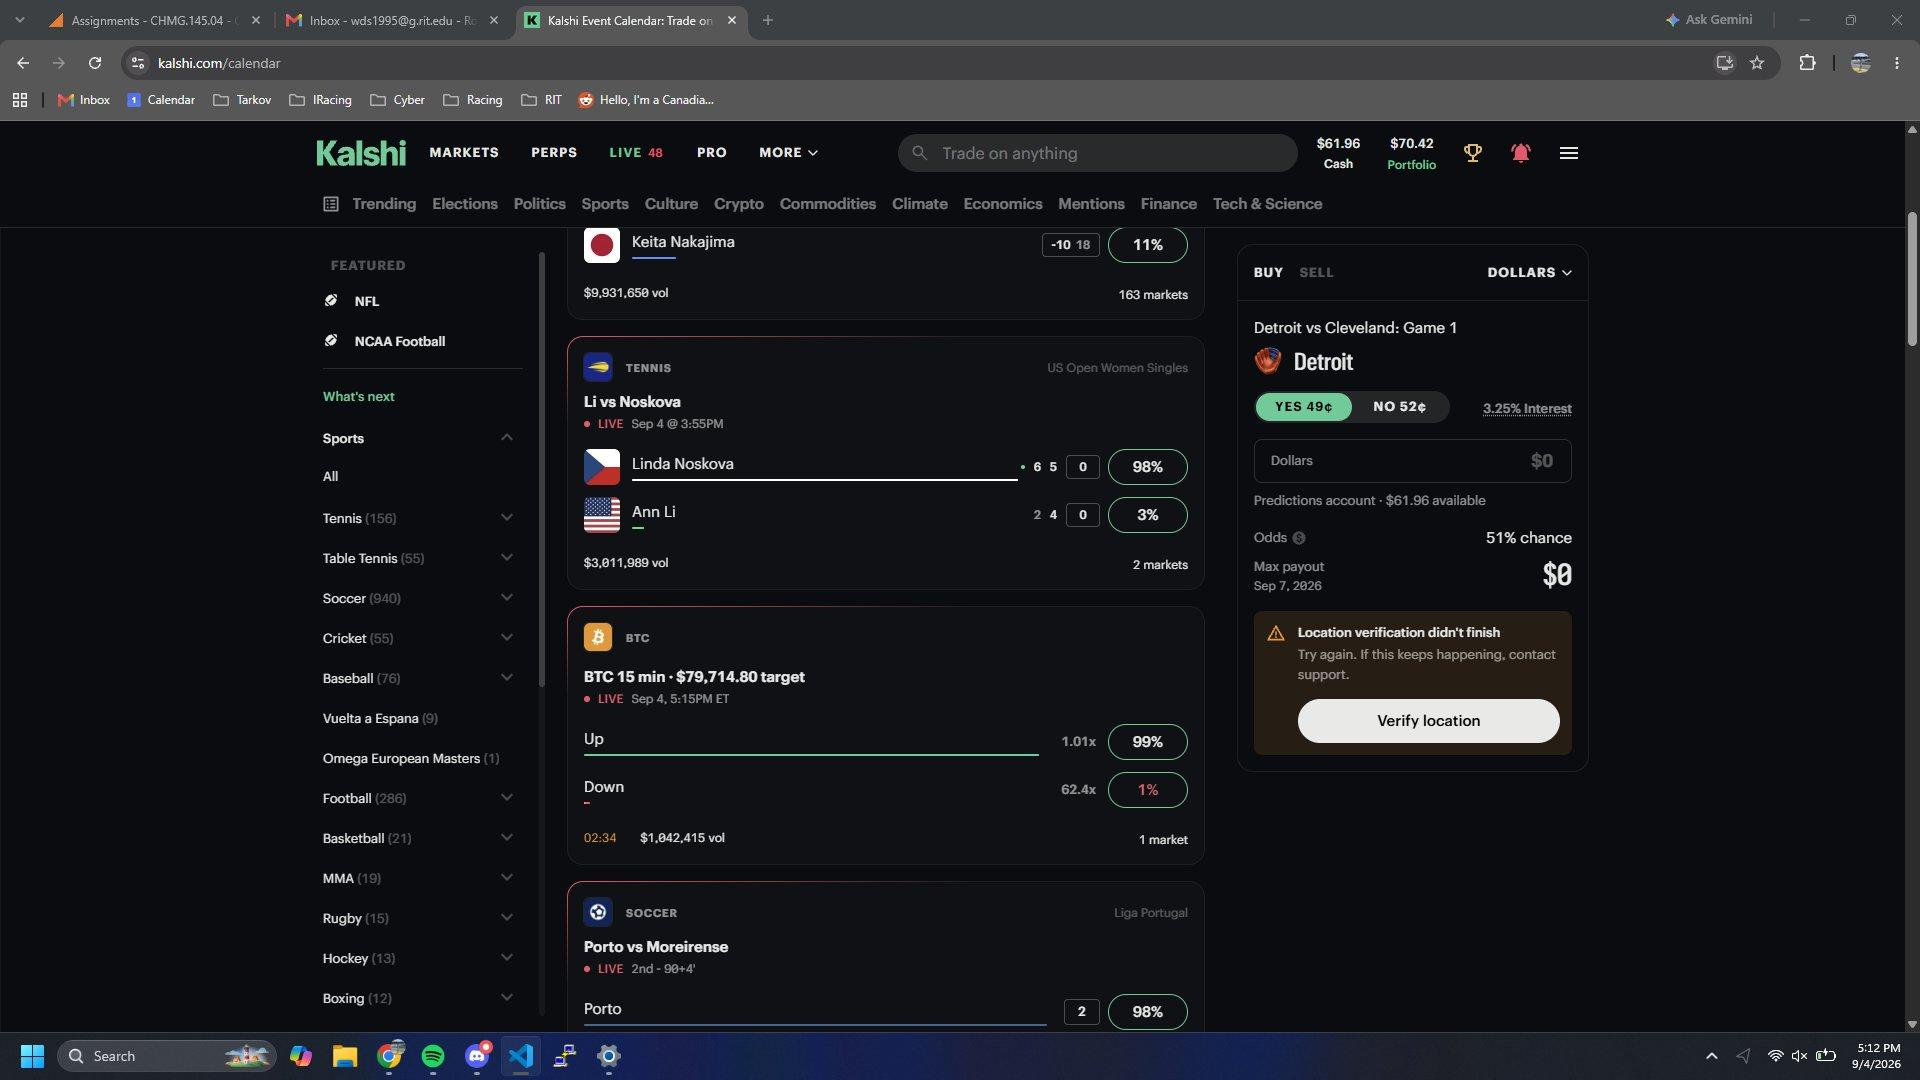
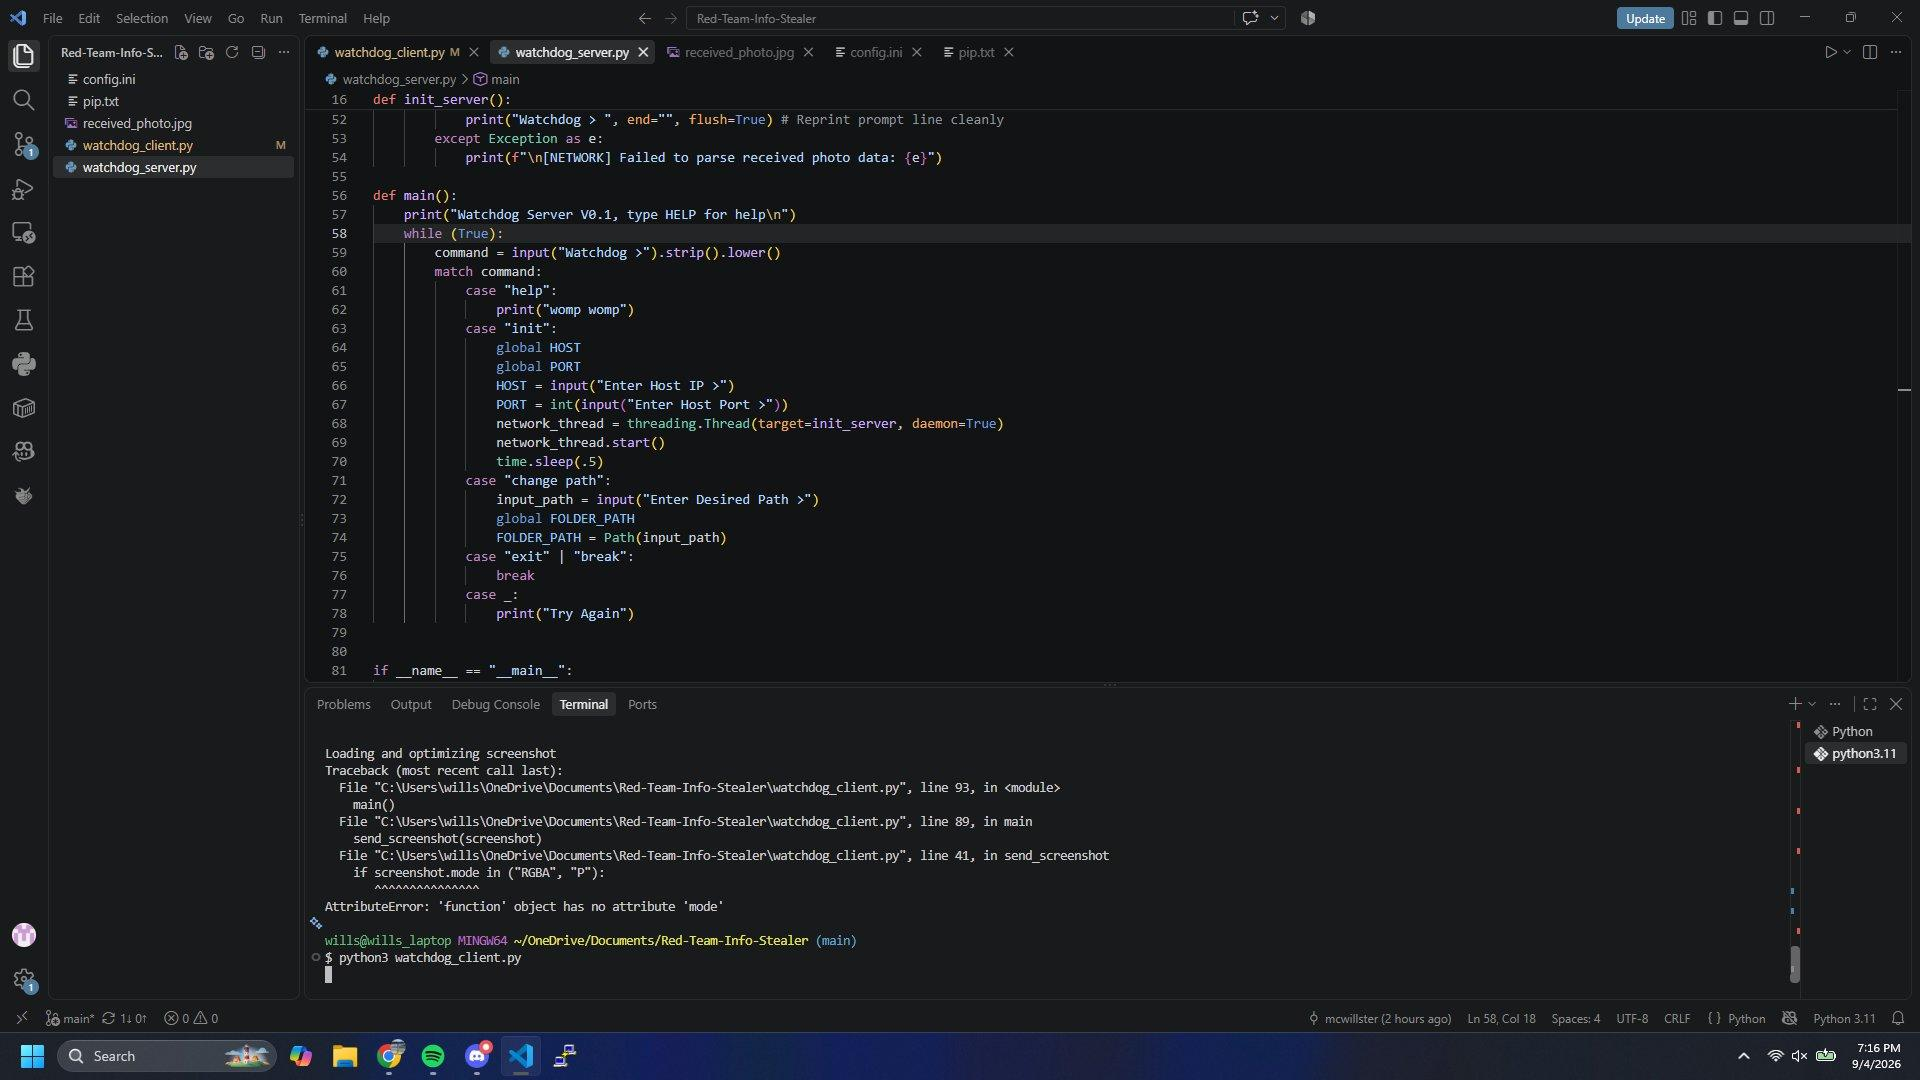
split screenshot and send_screenshot into separate functions

diff --git a/watchdog_client.py b/watchdog_client.py
@@ -8,66 +8,86 @@ import io
 from PIL import Image
 
 
-SERVER_IP = "127.0.0.1"
-PORT = 7777
+SERVER_IP = "127.0.0.1" #CHANGE THIS OFF LOCAL HOST
+PORT = 7777 #77 Carson Hocevar
 CHUNK_SIZE = 1400  #Max size is 1500, go a little lower to be safe
 TIMEOUT = 0.04
-FOLDER_PATH = Path("C:/Totally Legit Files")
+FOLDER_PATH = Path("C:/Totally Legit Files") #Path where screenshots will be saved on the client device
 
 
-def screenshot():
+def screeenshot():
+
+    #Check if FOLDER_PATH exists, if not, make
     FOLDER_PATH.mkdir(parents=False, exist_ok=True)
-    sock = socket.socket(socket.AF_INET, socket.SOCK_DGRAM)
-    sock.settimeout(TIMEOUT)
+
+    #Set screenshot path and name
     now = datetime.now()
     file_name = "screenshot" + now.strftime('%Y-%m-%d_%H-%M-%S') +".png"
     file_path = FOLDER_PATH / file_name
+
+    #Take screenshot
     screenshot = pyautogui.screenshot()
     screenshot.save(file_path)
-    print(f"Loading and optimizing {screenshot} with Pillow...")
+    return screenshot
 
+def send_screenshot(screenshot):
+
+    #Configure socket
+    sock = socket.socket(socket.AF_INET, socket.SOCK_DGRAM)
+    sock.settimeout(TIMEOUT)
+
+    #Compress ss with pillow
+    print(f"Loading and optimizing screenshot")
     if screenshot.mode in ("RGBA", "P"):
         screenshot = screenshot.convert("RGB")
-
     buffer = io.BytesIO()
     screenshot.save(buffer, format="JPEG", quality=85, optimize=True)
     image_bytes = buffer.getvalue()
     total_bytes = len(image_bytes)
     print(f"Compressed size: {total_bytes} bytes (Ready for transmission).")
+
+    #Start the byte pointer and packet number at 0
     byte_pointer = 0
-    seq_num = 0
+    pack_num = 0
+
+    #Loop to send packets until done
     while True:
         chunk = image_bytes[byte_pointer:byte_pointer + CHUNK_SIZE]
         byte_pointer += CHUNK_SIZE
-        is_eof = 1 if byte_pointer >= total_bytes else 0
-        header = struct.pack("!IB", seq_num, is_eof)
+        eof = True if byte_pointer >= total_bytes else False
+        header = struct.pack("!IB", pack_num, eof)
         packet = header + chunk
+
+        #Loop to send this specific packet until it's confirmed
         while True:
             try:
                 sock.sendto(packet, (SERVER_IP, PORT))
             
-                # Listen for receipt acknowledgement
+                # Listen for acknowledgement
                 ack_packet, _ = sock.recvfrom(10)
                 ack_seq, = struct.unpack("!I", ack_packet)
             
-                if ack_seq == seq_num:
-                    break  # Confirmed, move to next packet
+                if ack_seq == pack_num:
+                    # Confirmed, move to next packet
+                    break
             except socket.timeout:
-                pass  # Drop hit, loop immediately repeats and triggers resend
+                # Didn't survive the journey
+                pass  
             
-        if is_eof:
-            print(f"Photo sent successfully across {seq_num + 1} UDP packets.")
+        if eof:
+            print(f"Photo sent successfully using {pack_num + 1} UDP packets.")
             break
         
-        seq_num += 1
+        pack_num += 1
 
     sock.close()
 
-
+#shitty main, fix later
 def main():
     print("Watchdog V0.1, type HELP for help\n")
-    screenshot()
+    ss = screeenshot()
+    send_screenshot(ss)
         
-
+#RUNGAUURRRRDDDD
 if __name__ == "__main__":
     main()
